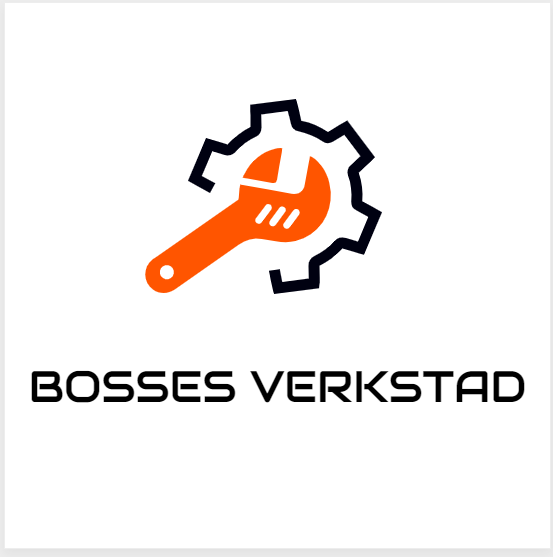
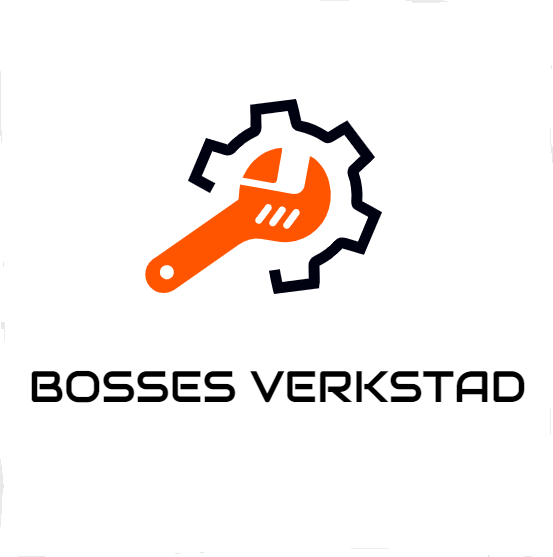
v 2.4

Changed region(s): [[0.0, 0.9767, 0.9837, 1.0]]

diff --git a/Projektuppgift/GUI/UserControls/UCStock.xaml b/Projektuppgift/GUI/UserControls/UCStock.xaml
@@ -23,7 +23,7 @@
                     <TextBlock Width="150" Text="Brakes:" TextAlignment="Left" FontSize="20" Margin="-550 10 0 0"></TextBlock>
                     <TextBlock x:Name="tbBrakes" Width="100" Text="{Binding CarBrakes}" TextAlignment="Center" FontSize="20" Margin="-150 -26 0 0"></TextBlock>
                     <TextBlock Width="150" Text="Engines:" TextAlignment="Left" FontSize="20" Margin="-550 10 0 0"></TextBlock>
-                    <TextBlock x:Name="tbMotors" Width="100" Text="{Binding CarMotors}" TextAlignment="Center" FontSize="20" Margin="-150 -26 0 0"></TextBlock>
+                    <TextBlock x:Name="tbMotors" Width="100" Text="{Binding CarEngines}" TextAlignment="Center" FontSize="20" Margin="-150 -26 0 0"></TextBlock>
                     <TextBlock Width="150" Text="Windshields:" TextAlignment="Left" FontSize="20" Margin="-550 10 0 0"></TextBlock>
                     <TextBlock x:Name="tbWS" Width="100" Text="{Binding CarWindshields}" TextAlignment="Center" FontSize="20" Margin="-150 -26 0 0"></TextBlock>
                     <TextBlock Width="150" Text="Vehicle bodies:" TextAlignment="Left" FontSize="20" Margin="-550 10 0 0"></TextBlock>
@@ -31,19 +31,19 @@
                     <TextBlock Text="MC" FontWeight="ExtraBold" HorizontalAlignment="Center" FontSize="22" Margin="100 -400 0 0" Height="30"></TextBlock>
                     <TextBlock x:Name="MC1" Width="100" Text="{Binding MCTires}" TextAlignment="Center"  FontSize="20" Margin="100 -326 0 0" Height="30"></TextBlock>
                     <TextBlock x:Name="MC2" Width="100" Text="{Binding MCBrakes}" TextAlignment="Center" FontSize="20" Margin="100 -250 0 0" Height="30"></TextBlock>
-                    <TextBlock x:Name="MC3" Width="100" Text="{Binding MCMotors}" TextAlignment="Center" FontSize="20" Margin="100 -174 0 0" Height="30"></TextBlock>
+                    <TextBlock x:Name="MC3" Width="100" Text="{Binding MCEngines}" TextAlignment="Center" FontSize="20" Margin="100 -174 0 0" Height="30"></TextBlock>
                     <TextBlock x:Name="MC4" Width="100" Text="{Binding MCWindshields}" TextAlignment="Center" FontSize="20" Margin="100 -98 0 0" Height="30"></TextBlock>
                     <TextBlock x:Name="MC5" Width="100" Text="{Binding MCVehicleBodies}" TextAlignment="Center" FontSize="20" Margin="100 -28 0 0" Height="30"></TextBlock>
                     <TextBlock Text="Bus" FontWeight="ExtraBold" HorizontalAlignment="Center" FontSize="22" Margin="350 -405 0 0" Height="30"></TextBlock>
                     <TextBlock x:Name="BUS1" Width="100" Text="{Binding BusTires}" TextAlignment="Center" FontSize="20" Margin="350 -330 0 0" Height="30"></TextBlock>
                     <TextBlock x:Name="BUS2" Width="100" Text="{Binding BusBrakes}" TextAlignment="Center" FontSize="20" Margin="350 -254 0 0" Height="30"></TextBlock>
-                    <TextBlock x:Name="BUS3" Width="100" Text="{Binding BusMotors}" TextAlignment="Center" FontSize="20" Margin="350 -178 0 0" Height="30"></TextBlock>
+                    <TextBlock x:Name="BUS3" Width="100" Text="{Binding BusEngines}" TextAlignment="Center" FontSize="20" Margin="350 -178 0 0" Height="30"></TextBlock>
                     <TextBlock x:Name="BUS4" Width="100" Text="{Binding BusWindshields}" TextAlignment="Center" FontSize="20" Margin="350 -102 0 0" Height="30"></TextBlock>
                     <TextBlock x:Name="BUS5" Width="100" Text="{Binding BusVehicleBodies}" TextAlignment="Center" FontSize="20" Margin="350 -30 0 0" Height="30"></TextBlock>
                     <TextBlock Text="Truck" FontWeight="ExtraBold" HorizontalAlignment="Center" FontSize="22" Margin="600 -405 0 0" Height="30"></TextBlock>
                     <TextBlock x:Name="TRUCK1" Width="100" Text="{Binding TruckTires}" TextAlignment="Center" FontSize="20" Margin="600 -330 0 0" Height="30"></TextBlock>
                     <TextBlock x:Name="TRUCK2" Width="100" Text="{Binding TruckBrakes}" TextAlignment="Center" FontSize="20" Margin="600 -254 0 0" Height="30"></TextBlock>
-                    <TextBlock x:Name="TRUCK3" Width="100" Text="{Binding TruckMotors}" TextAlignment="Center" FontSize="20" Margin="600 -178 0 0" Height="30"></TextBlock>
+                    <TextBlock x:Name="TRUCK3" Width="100" Text="{Binding TruckEngines}" TextAlignment="Center" FontSize="20" Margin="600 -178 0 0" Height="30"></TextBlock>
                     <TextBlock x:Name="TRUCK4" Width="100" Text="{Binding TruckWindshields}" TextAlignment="Center" FontSize="20" Margin="600 -102 0 0" Height="30"></TextBlock>
                     <TextBlock x:Name="TRUCK5" Width="100" Text="{Binding TruckVehicleBodies}" TextAlignment="Center" FontSize="20" Margin="600 -30 0 0" Height="30"></TextBlock>
                 </StackPanel>
@@ -52,22 +52,22 @@
             <ComboBox x:Name="InvComboBox" Margin="-990 250 0 0" Width="100" SelectionChanged="InvComboBox_SelectionChanged">
                 <ComboBoxItem Content="CarTires"></ComboBoxItem>
                 <ComboBoxItem Content="CarBrakes"></ComboBoxItem>
-                <ComboBoxItem Content="CarMotors"></ComboBoxItem>
+                <ComboBoxItem Content="CarEngines"></ComboBoxItem>
                 <ComboBoxItem Content="CarWindshields"></ComboBoxItem>
                 <ComboBoxItem Content="CarVehicle bodies"></ComboBoxItem>
                 <ComboBoxItem Content="MCTires"></ComboBoxItem>
                 <ComboBoxItem Content="MCBrakes"></ComboBoxItem>
-                <ComboBoxItem Content="MCMotors"></ComboBoxItem>
+                <ComboBoxItem Content="MCEngines"></ComboBoxItem>
                 <ComboBoxItem Content="MCWindshields"></ComboBoxItem>
                 <ComboBoxItem Content="MCVehicle bodies"></ComboBoxItem>
                 <ComboBoxItem Content="BusTires"></ComboBoxItem>
                 <ComboBoxItem Content="BusBrakes"></ComboBoxItem>
-                <ComboBoxItem Content="BusMotors"></ComboBoxItem>
+                <ComboBoxItem Content="BusEngines"></ComboBoxItem>
                 <ComboBoxItem Content="BusWindshields"></ComboBoxItem>
                 <ComboBoxItem Content="BusVehicle bodies"></ComboBoxItem>
                 <ComboBoxItem Content="TruckTires"></ComboBoxItem>
                 <ComboBoxItem Content="TruckBrakes"></ComboBoxItem>
-                <ComboBoxItem Content="TruckMotors"></ComboBoxItem>
+                <ComboBoxItem Content="TruckEngines"></ComboBoxItem>
                 <ComboBoxItem Content="TruckWindshields"></ComboBoxItem>
                 <ComboBoxItem Content="TruckVehicle bodies"></ComboBoxItem>
             </ComboBox>

diff --git a/Projektuppgift/GUI/Home/LoadingScreen.xaml b/Projektuppgift/GUI/Home/LoadingScreen.xaml
@@ -1,13 +1,19 @@
-<Page x:Class="GUI.Home.LoadingScreen"
+<Page
       xmlns="http://schemas.microsoft.com/winfx/2006/xaml/presentation"
       xmlns:x="http://schemas.microsoft.com/winfx/2006/xaml"
       xmlns:mc="http://schemas.openxmlformats.org/markup-compatibility/2006" 
       xmlns:d="http://schemas.microsoft.com/expression/blend/2008" 
       xmlns:local="clr-namespace:GUI.Home"
+      xmlns:materialDesign="http://materialdesigninxaml.net/winfx/xaml/themes" x:Class="GUI.Home.LoadingScreen"
       mc:Ignorable="d" 
       d:DesignHeight="600" d:DesignWidth="400">
 
     <Grid Background="White" Width="400" Height="600" x:Name="LoadingView">
-        <Image Source="/Assets/Verkstad.png" ></Image>
+
+        <Image Source="/Assets/Verkstad.png" OpacityMask="White"/>
+        
+
+        
+
     </Grid>
 </Page>

diff --git a/Projektuppgift/GUI/UserControls/UserControlCompetenceMech.xaml.cs b/Projektuppgift/GUI/UserControls/UserControlCompetenceMech.xaml.cs
@@ -15,7 +15,7 @@ using System.Windows.Media;
 using System.Windows.Media.Imaging;
 using System.Windows.Navigation;
 using System.Windows.Shapes;
-using static Logic.Services.AddMechanicService;
+using static Logic.Services.StaticLists;
 
 
 namespace GUI.UserControls
@@ -34,7 +34,7 @@ namespace GUI.UserControls
                 jsonFromFile = reader.ReadToEnd();
             }
             var readFromJson = JsonConvert.DeserializeObject<List<Mechanic>>(jsonFromFile);
-            AddMechanicService.mechanics = readFromJson;
+            mechanics = readFromJson;
 
             Mechanic LoggedInMechanic = readFromJson.FirstOrDefault(x => x.UserID == LoggedInUserService.LoggedInUser.UserID);
 
@@ -44,7 +44,7 @@ namespace GUI.UserControls
         private void Button_Click(object sender, RoutedEventArgs e)
         {
 
-            string MotorIsChecked = ((bool)cbMotorYes3.IsChecked) ? "Yes" : "No";
+            string EnginesAreChecked = ((bool)cbMotorYes3.IsChecked) ? "Yes" : "No";
             string TiresAreChecked = ((bool)cbTiresYes3.IsChecked) ? "Yes" : "No";
             string BrakesAreChecked = ((bool)cbBrakesYes3.IsChecked) ? "Yes" : "No";
             string WindshieldsAreChecked = ((bool)cbWindshieldsYes3.IsChecked) ? "Yes" : "No";
@@ -52,21 +52,11 @@ namespace GUI.UserControls
 
             var LoggedInMechanic = DataContext as Mechanic;
 
-            LoggedInMechanic.CanFixMotor = MotorIsChecked;
+            LoggedInMechanic.CanFixEngines = EnginesAreChecked;
             LoggedInMechanic.CanFixTires = TiresAreChecked;
             LoggedInMechanic.CanFixBrakes = BrakesAreChecked;
-            LoggedInMechanic.CanFixWindshield = WindshieldsAreChecked;
+            LoggedInMechanic.CanFixWindshields = WindshieldsAreChecked;
             LoggedInMechanic.CanFixVehicleBody = VehicleBodyIsChecked;
-
-
-            //Mechanic mechanic = new Mechanic
-            //{
-            //    CanFixMotor = MotorIsChecked,
-            //    CanFixTires = TiresAreChecked,
-            //    CanFixBrakes = BrakesAreChecked,
-            //    CanFixWindshield = WindshieldsAreChecked,
-            //    CanFixVehicleBody = VehicleBodyIsChecked
-            //};
 
             var index = mechanics.FindIndex(x => x.MechID == LoggedInMechanic.MechID);
             mechanics[index] = LoggedInMechanic;

diff --git a/Projektuppgift/GUI/UserControls/UserControlNewErrand.xaml.cs b/Projektuppgift/GUI/UserControls/UserControlNewErrand.xaml.cs
@@ -72,7 +72,7 @@ namespace GUI.UserControls
 
         }
 
-        public void CreateErrand_Click(object sender, RoutedEventArgs e)
+        public async void CreateErrand_Click(object sender, RoutedEventArgs e)
         {
             string errandName = this.tbErrandName.Text;
             string errandStart = this.tbErrandStart.Text;
@@ -106,9 +106,10 @@ namespace GUI.UserControls
                 var jsonRead = JsonConvert.DeserializeObject<List<Errands>>(jsonFile);
                 errands.Add(errand);
                 var jsonWrite = JsonConvert.SerializeObject(errands, Formatting.Indented);
+                var fs = File.OpenWrite(pathforErrand);
                 using (var jsonWriter = new StreamWriter(pathforErrand))
                 {
-                    jsonWriter.Write(jsonWrite);
+                    await jsonWriter.WriteAsync(jsonWrite);
                 }
 
             }
@@ -117,9 +118,10 @@ namespace GUI.UserControls
             {
                 errands.Add(errand);
                 var jsonWrite = JsonConvert.SerializeObject(errands, Formatting.Indented);
+                var fs = File.OpenWrite(pathforErrand);
                 using (var jsonWriter = new StreamWriter(pathforErrand))
                 {
-                    jsonWriter.Write(jsonWrite);
+                    await jsonWriter.WriteAsync(jsonWrite);
                 }
             }
             ErrandViewer.Children.Clear();

diff --git a/Projektuppgift/GUI/UserControls/EditMechanic.xaml.cs b/Projektuppgift/GUI/UserControls/EditMechanic.xaml.cs
@@ -34,7 +34,7 @@ namespace GUI.UserControls
 
         }
 
-        private void EditMechanicButton_Click(object sender, System.Windows.RoutedEventArgs e)
+        private async void EditMechanicButton_Click(object sender, System.Windows.RoutedEventArgs e)
         {
             Mechanic selectedMechanic = _selectedMechanic;
 
@@ -84,7 +84,7 @@ namespace GUI.UserControls
                 var jsonToWrite = JsonConvert.SerializeObject(mechanics, Formatting.Indented);
                 using (var writer = new StreamWriter(mechpath))
                 {
-                    writer.Write(jsonToWrite);
+                   await writer.WriteAsync(jsonToWrite);
 
                 }
 
@@ -98,7 +98,7 @@ namespace GUI.UserControls
                 var fs = File.OpenWrite(mechpath);
                 using (var writer = new StreamWriter(fs))
                 {
-                    writer.Write(jsonToWrite);
+                   await writer.WriteAsync(jsonToWrite);
 
                 }
 

diff --git a/Projektuppgift/GUI/UserControls/AddMechanic.xaml.cs b/Projektuppgift/GUI/UserControls/AddMechanic.xaml.cs
@@ -32,7 +32,7 @@ namespace Projektuppgift.GUI.UserControls
 
         }
 
-        public void AddMechanicButton_Click(object sender, RoutedEventArgs e)
+        public async void AddMechanicButton_Click(object sender, RoutedEventArgs e)
         {
 
 
@@ -78,7 +78,7 @@ namespace Projektuppgift.GUI.UserControls
                 var jsonToWrite = JsonConvert.SerializeObject(mechanics, Formatting.Indented);
                 using (var writer = new StreamWriter(mechpath)) 
                 {   
-                writer.Write(jsonToWrite);
+                await writer.WriteAsync(jsonToWrite);
                 
                 }
             }
@@ -90,7 +90,7 @@ namespace Projektuppgift.GUI.UserControls
                 var fs = File.OpenWrite(mechpath);
                 using (var writer = new StreamWriter(fs))
                 {
-                    writer.Write(jsonToWrite);
+                   await writer.WriteAsync(jsonToWrite);
 
                 }
             }

diff --git a/Projektuppgift/GUI/UserControls/AddUser.xaml.cs b/Projektuppgift/GUI/UserControls/AddUser.xaml.cs
@@ -54,7 +54,7 @@ namespace GUI.UserControls
 
         }
 
-        private void Button_Click(object sender, RoutedEventArgs e)
+        private async void Button_Click(object sender, RoutedEventArgs e)
 
         {
             var mechanic = MechanicCb.SelectedItem as Mechanic;
@@ -104,14 +104,14 @@ namespace GUI.UserControls
                 var jsonToWrite = JsonConvert.SerializeObject(usersList, Formatting.Indented);
                 using (var writer = new StreamWriter(userpath))
                 {
-                    writer.Write(jsonToWrite);
+                   await writer.WriteAsync(jsonToWrite);
 
                 }
 
                 jsonToWrite = JsonConvert.SerializeObject(mechanics, Formatting.Indented);
                 using (var writer = new StreamWriter(mechpath))
                 {
-                    writer.Write(jsonToWrite);
+                    await writer.WriteAsync(jsonToWrite);
 
                 }
 

diff --git a/Projektuppgift/GUI/Login/LoginPage.xaml.cs b/Projektuppgift/GUI/Login/LoginPage.xaml.cs
@@ -49,15 +49,14 @@ namespace GUI.Login
             {
                 if (userLogIn.IsAdmin)
                 {
+   
                     BosseHomePage bossesHemsida = new BosseHomePage();
                     this.NavigationService.Navigate(bossesHemsida);
 
+
+
                 }
-                //LoadingScreen loadingScreen = new LoadingScreen();
-
-                //this.NavigationService.Navigate(loadingScreen);
-
-                //await LoadingScreenMethod();
+                
 
                 else
                 {
@@ -88,14 +87,7 @@ namespace GUI.Login
 
             Application.Current.Shutdown();
         }
-        public async Task LoadingScreenMethod()
-        {
-            await Task.Run(() =>
-            {
-                Thread.Sleep(2000);
-               
-            });
-        }
+        
         
         
     }

diff --git a/Projektuppgift/GUI/Home/LoadingScreen.xaml.cs b/Projektuppgift/GUI/Home/LoadingScreen.xaml.cs
@@ -26,12 +26,20 @@ namespace GUI.Home
         {
             InitializeComponent();
 
-            
+            LoadingScreenMethod();
 
 
         }
-        
-        
-       
+        public void LoadingScreenMethod()
+        {
+            Thread.Sleep(2000);
+
+
+
+
+
+        }
+
+
     }
 }

diff --git a/Projektuppgift/Logic/Interfaces/ILoginService.cs b/Projektuppgift/Logic/Interfaces/ILoginService.cs
@@ -1,7 +1,10 @@
-namespace Logic.Services
+using Logic.Entities;
+
+namespace Logic.Services
 {
     public interface ILoginService
     {
-        bool Login(string username, string password);
+       
+        User Login(string username, string password);
     }
 }

diff --git a/Projektuppgift/GUI/Home/MechanicHomePage.xaml.cs b/Projektuppgift/GUI/Home/MechanicHomePage.xaml.cs
@@ -15,7 +15,7 @@ using System.Windows.Media;
 using System.Windows.Media.Imaging;
 using System.Windows.Navigation;
 using System.Windows.Shapes;
-using static Logic.Services.AddMechanicService;
+using static Logic.Services.StaticLists;
 
 namespace GUI.Home
 {
